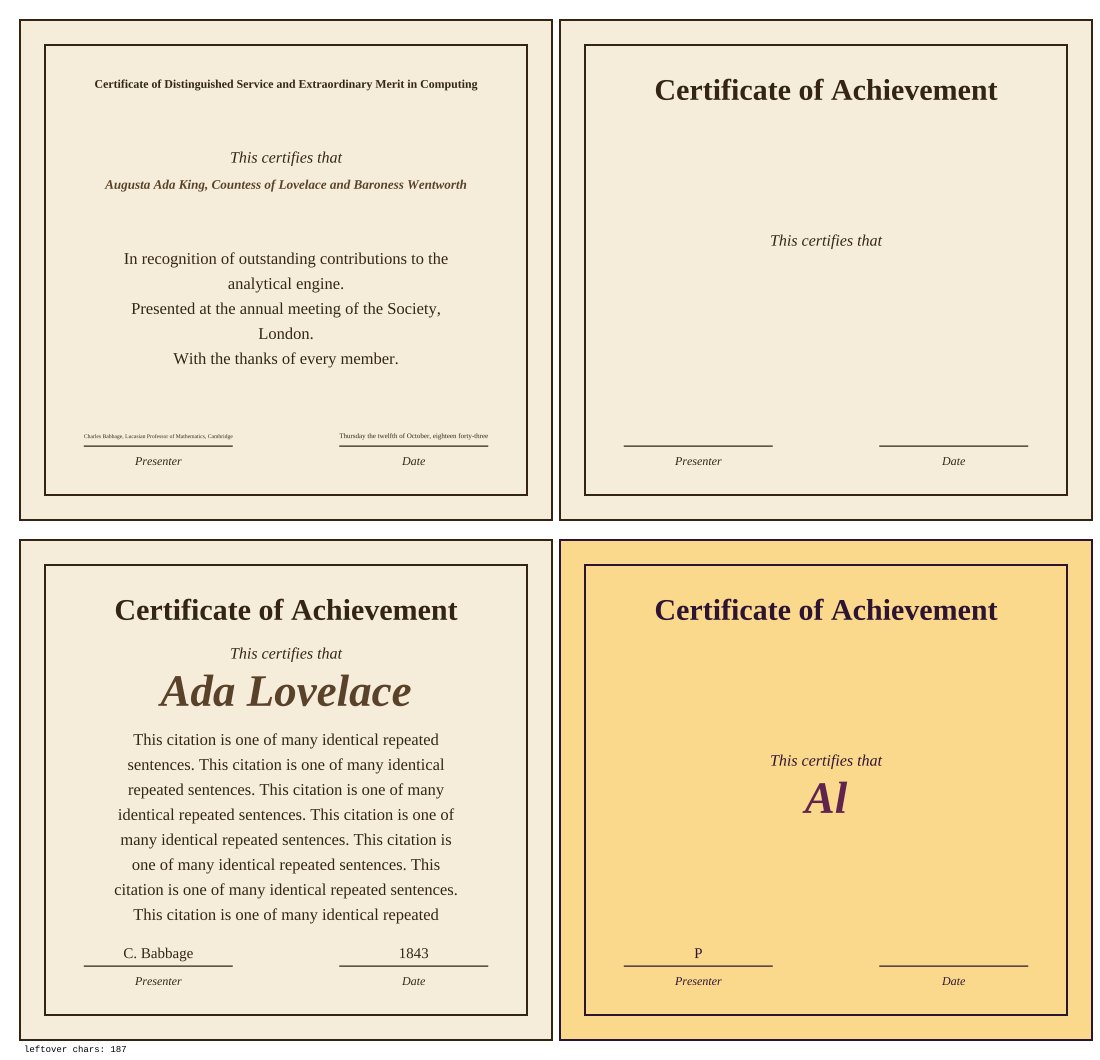
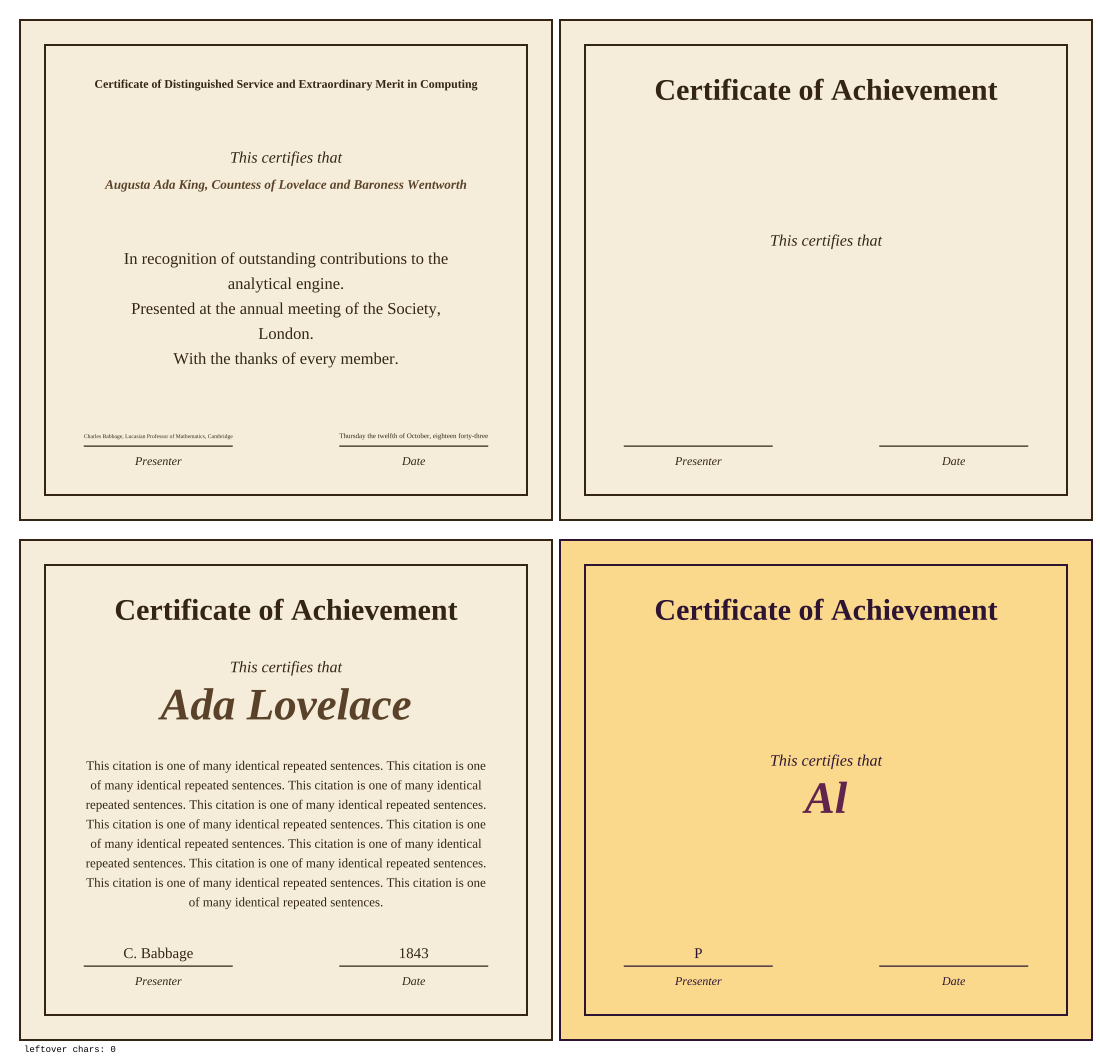
pagekit: pgcertificate citation steps down in size before it is cut (#954)
The first perceptual review failed the one-size citation: it cut a
600-character body the old layout held whole, and at the minimum gaps
an overflowing citation crowded the name and the signatures. Four size,
leading and measure steps now hold 899 characters at 532x500 (684
before #954); the minimum gap is 0.06h.

Claude-Session: https://claude.ai/code/session_016y8NtQFumGuLepCfkr17xP

Changed region(s): [[0.0618, 0.5915, 0.4327, 0.8717]]

diff --git a/tests/pagekit.rs b/tests/pagekit.rs
@@ -473,3 +473,24 @@ fn certificate_long_content_stays_inside_and_clear_of_the_title() {
         runs[0]
     );
 }
+
+#[test]
+fn certificate_long_citation_shrinks_before_it_is_cut() {
+    // The first #954 layout used one citation size and cut a 600-character
+    // body the old layout had held whole. The size steps must hold it.
+    let sentence = "This citation is one of many identical repeated sentences. ";
+    let mut it = fresh(CERT_W + 2 * MARGIN, CERT_H + 2 * MARGIN);
+    it.run_str(&format!(
+        "{MARGIN} {MARGIN} {CERT_W} {CERT_H} << /Awardee (Ada Lovelace) /Body ({}) \
+         /Presenter (C. Babbage) /Date (1843) >> pgcertificate",
+        sentence.repeat(10)
+    ))
+    .unwrap_or_else(|e| panic!("pgcertificate failed: {}", it.error_report(&e)));
+    let stack = it.operand_stack();
+    assert_eq!(stack.len(), 1, "expected exactly one leftover string");
+    assert_eq!(
+        stack[0].repr(),
+        "()",
+        "a 600-character citation must fit whole"
+    );
+}

diff --git a/notes/954-pgcertificate-spacing.md b/notes/954-pgcertificate-spacing.md
@@ -33,20 +33,23 @@ What changed (interface unchanged: same keys, same leftover contract):
   is now worked out before anything is placed, so a long, shrunk name
   gets a slot sized to its real ink instead of floating in its nominal
   one.
-- **Sizes for README width.** The citation went from 0.026h to 0.033h on a
-  0.05h leading, "This certifies that" from 0.024h to 0.032h, the names
-  from 0.02h to 0.03h, and the captions to 0.024h italic. At about
-  380 px wide the old 0.02h captions were about 6 px tall. The citation
-  measure narrowed from 0.76w to 0.66w, about 60 characters a line at
-  the specimen's size, which also avoids the specimen's one-word last
-  line.
+- **Sizes for README width, stepping down for long copy.** At about 380 px
+  wide the old 0.02h captions were about 6 px tall, so "This certifies
+  that" went from 0.024h to 0.032h, the names from 0.02h to 0.03h, and the
+  captions to 0.024h italic. The citation takes the largest of four steps
+  (size / leading / measure: 0.033h/0.05h/0.66w, 0.029h/0.044h/0.72w,
+  0.026h/0.039h/0.76w, 0.023h/0.035h/0.78w) whose wrapped lines all fit
+  at the minimum gaps. The specimen's two sentences get the first step,
+  about 60 characters a line, which also avoids its old one-word last
+  line. A long citation shrinks before any of it is cut.
 
-**Capacity tradeoff.** Larger type and a narrower measure hold less text.
-At 532x500 a 600-character citation used to fit whole; now 408
-characters fit (about seven lines), and the rest is returned as leftover,
-as the contract already says. Certificate citations are a sentence or
-two, so this is the right trade for a document that has to read at
-thumbnail size.
+**Capacity.** The first version of this fix used one size only. That
+held 408 characters of a test body at 532x500, against the old layout's
+684, so the first perceptual review failed it for cutting a citation
+that used to fit. With the steps, a 532x500 certificate holds 899
+characters before anything goes to the leftover. The minimum gap went
+from 0.05h to 0.06h after the same review found an overflowing citation
+crowding the awardee and the names.
 
 Cap height and descender are Times' own proportions (0.66 and 0.22 of
 the size), not measured per glyph. That is close enough for spacing, and
